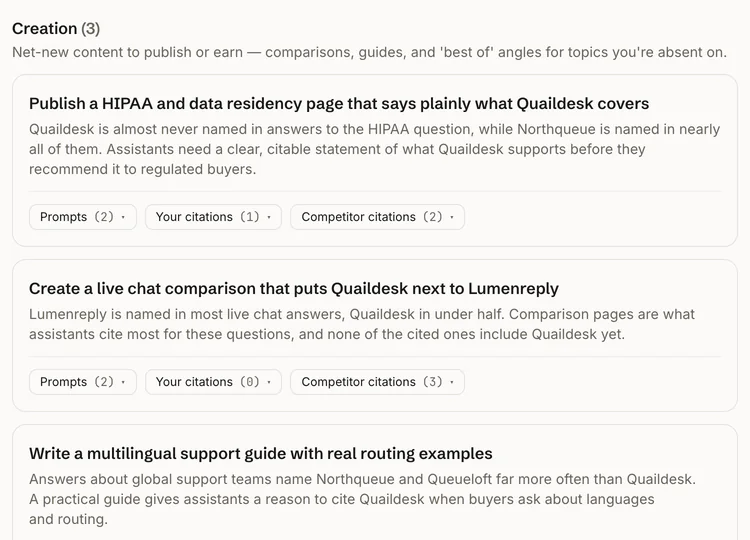
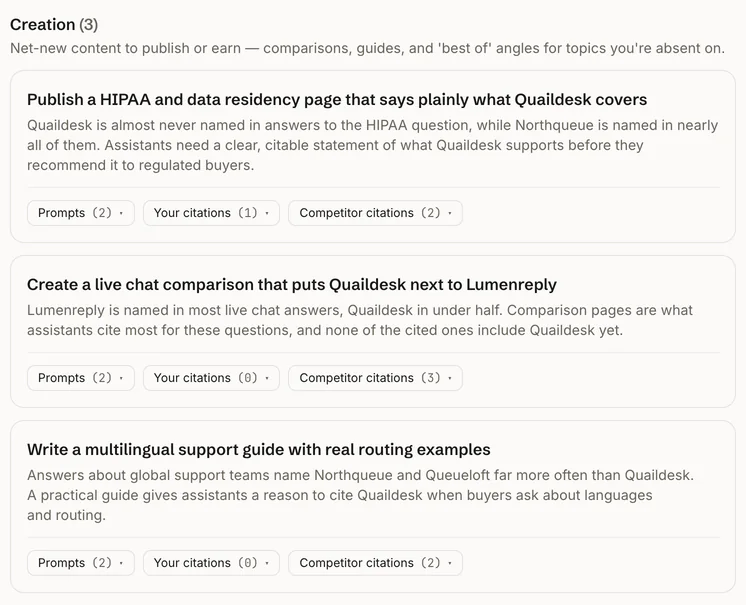
Open the live demo in a panel on the page
Try the live demo and the hero capture opened the demo in a new tab. On a wide screen they now open the real product in a large panel on the same page, signed in and usable, with its own sign-up button inside. The frame is created only when the panel opens, so the page loads nothing extra until then. On a narrow screen, without script, or with a modifier key, the link behaves as before. VITE_DEMO_EMBED=off turns the panel off.

The three step captures are retaken to end on whole blocks, cut inside the dashboard's own cards so the page draws the only outline, and each has a phone version at a phone's width. The last step links to the demo as well as to sign-up.

diff --git a/apps/www/src/components/citerank/v2/how-it-works.tsx b/apps/www/src/components/citerank/v2/how-it-works.tsx
@@ -1,25 +1,38 @@
-import { cloudSignupUrl } from "@workspace/config/referrals";
+import { cloudSignupUrl, demoSiteUrl } from "@workspace/config/referrals";
 import { trackEvent } from "@/lib/posthog";
+import { DEMO_BRAND_PATH } from "../home/product-demo";
 import { BODY, LINK, PANEL, PANEL_PAD_WIDE, Page, PanelHead, SUBHEAD } from "./kit";
+import { LiveDemoLink } from "./live-demo";
 
+/*
+ * Each step shows the screen it describes, cut from the live demo at the size
+ * it is shown at. A phone gets its own cut of the same screen, taken at a
+ * phone's width, or the text in it would be too small to read.
+ */
 const STEPS = [
 	{
 		title: "We ask AI your buyers’ questions",
 		body: "We put your buyers’ questions to every engine and keep each answer whole, with the brands it named and the sources it cited.",
 		shot: "step-ask",
+		size: { width: 722, height: 327 },
+		phone: { width: 354, height: 562 },
 		alt: "A saved ChatGPT answer in CiteRank.com: the question asked, the web searches it ran, and the six brands it named with each one’s rank and tone",
 	},
 	{
 		title: "See where you stand",
 		body: "How often you are named, how often each rival is, how AI describes you, and which pages it trusts.",
 		shot: "step-see",
+		size: { width: 722, height: 477 },
+		phone: { width: 354, height: 477 },
 		alt: "The share of voice leaderboard in CiteRank.com: the tracked brand first, then eight rivals, each with its mentions and its share",
 	},
 	{
 		title: "Know what to fix",
 		body: "Opportunities ranks the fixes, biggest win first: a page to write, a page to update, a review site to get on.",
 		shot: "step-fix",
-		alt: "The opportunities page in CiteRank.com: three pages to create, each with the reason AI is not naming the brand yet",
+		size: { width: 746, height: 605 },
+		phone: { width: 378, height: 676 },
+		alt: "The opportunities page in CiteRank.com: pages to create, each with the reason AI is not naming the brand yet",
 	},
 ];
 
@@ -27,12 +40,14 @@ const STEPS = [
  * On a wide screen each capture holds its place while the steps scroll past,
  * and the next one slides over it. That works by letting a capture's grid area
  * run from its own row to the last, which is as far as it may stay stuck. Each
- * sticks a little lower than the one before, so the earlier sheets show above it.
+ * sticks a little lower than the one before, so the earlier sheets show above
+ * it, and none is shorter than the one it covers.
  */
 const ROW = ["lg:row-start-1", "lg:row-start-2", "lg:row-start-3"];
 const STUCK = ["lg:top-28", "lg:top-32", "lg:top-36"];
 
 export function HowItWorks() {
+	const demoUrl = demoSiteUrl("marketing-page-cta", DEMO_BRAND_PATH);
 	return (
 		<section id="how-it-works" className={`${PANEL} ${PANEL_PAD_WIDE}`}>
 			<Page>
@@ -47,15 +62,23 @@ export function HowItWorks() {
 								<h3 className={`${SUBHEAD} mt-6 text-ink`}>{step.title}</h3>
 								<p className={`${BODY} mt-3 max-w-[44ch] text-zinc-600`}>{step.body}</p>
 								{index === STEPS.length - 1 ? (
-									<p className={`${BODY} mt-6`}>
+									// A div, not a paragraph: the demo link carries a dialog, which a paragraph cannot contain.
+									<div className={`${BODY} mt-6 flex flex-wrap gap-x-6 gap-y-2`}>
 										<a
 											href={cloudSignupUrl("marketing-cta")}
 											onClick={() => trackEvent("signup_click", { from: "marketing-how-it-works" })}
-											className={`${LINK} font-medium text-ink`}
+											className={`${LINK} font-medium whitespace-nowrap text-ink`}
 										>
 											Start tracking
 										</a>
-									</p>
+										<LiveDemoLink
+											href={demoUrl}
+											onOpen={() => trackEvent("demo_open", { from: "demo-section" })}
+											className={`${LINK} font-medium whitespace-nowrap text-ink`}
+										>
+											Try the live demo
+										</LiveDemoLink>
+									</div>
 								) : null}
 							</div>
 							<figure
@@ -63,17 +86,26 @@ export function HowItWorks() {
 								data-kind="product"
 								className={`mt-8 lg:sticky lg:col-start-2 lg:row-end-4 lg:mt-0 lg:self-start ${ROW[index]} ${STUCK[index]}`}
 							>
-								<img
-									src={`/screens/${step.shot}.webp`}
-									srcSet={`/screens/${step.shot}.webp 750w, /screens/${step.shot}-2x.webp 1500w`}
-									sizes="(min-width: 1024px) 728px, 100vw"
-									width={750}
-									height={540}
-									alt={step.alt}
-									loading="lazy"
-									decoding="async"
-									className="block h-auto w-full rounded-card bg-paper ring-1 ring-zinc-200"
-								/>
+								<picture>
+									<source
+										media="(max-width: 639px)"
+										srcSet={`/screens/${step.shot}-phone.webp ${step.phone.width}w, /screens/${step.shot}-phone-2x.webp ${step.phone.width * 2}w`}
+										sizes="100vw"
+										width={step.phone.width}
+										height={step.phone.height}
+									/>
+									<img
+										src={`/screens/${step.shot}.webp`}
+										srcSet={`/screens/${step.shot}.webp ${step.size.width}w, /screens/${step.shot}-2x.webp ${step.size.width * 2}w`}
+										sizes="(min-width: 1024px) 728px, 100vw"
+										width={step.size.width}
+										height={step.size.height}
+										alt={step.alt}
+										loading="lazy"
+										decoding="async"
+										className="block h-auto w-full rounded-card bg-paper ring-1 ring-zinc-200"
+									/>
+								</picture>
 							</figure>
 						</li>
 					))}

diff --git a/apps/www/src/components/citerank/v2/live-demo.tsx b/apps/www/src/components/citerank/v2/live-demo.tsx
@@ -1,0 +1,80 @@
+import { X } from "lucide-react";
+import { type ComponentPropsWithoutRef, type MouseEvent, useEffect, useRef, useState } from "react";
+import { externalRel } from "@/lib/external-link";
+import { LINK_ON_INK } from "./kit";
+
+/* Set VITE_DEMO_EMBED=off where the demo deployment does not yet allow this site to frame it. */
+const EMBED = import.meta.env.VITE_DEMO_EMBED !== "off";
+/* Below this the product gets the whole screen in its own tab, which serves it better than a panel. */
+const PANEL_FROM = "(min-width: 1024px)";
+
+/**
+ * A link to the live demo. On a wide screen it opens the real product in a
+ * panel on this page, so a visitor can use it without leaving or signing up.
+ * The frame is only created when the panel opens, so it costs the page nothing
+ * until then. Without script, on a narrow screen, or with a modifier key held,
+ * it is an ordinary link to the demo in a new tab.
+ */
+export function LiveDemoLink({
+	href,
+	onOpen,
+	children,
+	...rest
+}: { href: string; onOpen?: () => void } & Omit<ComponentPropsWithoutRef<"a">, "href" | "onClick" | "target" | "rel">) {
+	const dialog = useRef<HTMLDialogElement>(null);
+	const [open, setOpen] = useState(false);
+
+	useEffect(() => {
+		if (open) dialog.current?.showModal();
+	}, [open]);
+
+	function onClick(event: MouseEvent<HTMLAnchorElement>) {
+		onOpen?.();
+		if (!EMBED || event.metaKey || event.ctrlKey || event.shiftKey || event.altKey) return;
+		if (!window.matchMedia(PANEL_FROM).matches) return;
+		event.preventDefault();
+		setOpen(true);
+	}
+
+	return (
+		<>
+			<a {...rest} href={href} target="_blank" rel={externalRel(href)} onClick={onClick}>
+				{children}
+			</a>
+			<dialog
+				ref={dialog}
+				aria-label="CiteRank.com live demo"
+				onClose={() => setOpen(false)}
+				className="m-auto h-[min(60rem,92dvh)] w-[min(96rem,96dvw)] max-w-none overflow-hidden rounded-card bg-paper p-0 text-ink backdrop:bg-ink/70"
+			>
+				{open ? (
+					<div className="flex h-full flex-col">
+						<div className="flex h-14 shrink-0 items-center gap-6 bg-ink px-5 text-paper">
+							<p className="text-[0.9375rem] font-medium">Live demo</p>
+							<p className="hidden text-[0.875rem] text-zinc-300 xl:block">
+								The real product on sample data. Nothing you do here is saved.
+							</p>
+							<a
+								href={href}
+								target="_blank"
+								rel={externalRel(href)}
+								className={`${LINK_ON_INK} ml-auto text-[0.875rem] whitespace-nowrap text-paper`}
+							>
+								Open in a new tab
+							</a>
+							<button
+								type="button"
+								onClick={() => dialog.current?.close()}
+								aria-label="Close the live demo"
+								className="-mr-2 inline-flex size-11 items-center justify-center rounded-full text-paper transition-colors duration-200 hover:bg-ink-well focus-visible:outline-2 focus-visible:-outline-offset-4 focus-visible:outline-paper"
+							>
+								<X className="size-5" aria-hidden="true" />
+							</button>
+						</div>
+						<iframe src={href} title="CiteRank.com live demo" className="block min-h-0 w-full flex-1 bg-paper" />
+					</div>
+				) : null}
+			</dialog>
+		</>
+	);
+}

diff --git a/apps/www/src/components/citerank/v2/hero.tsx b/apps/www/src/components/citerank/v2/hero.tsx
@@ -2,10 +2,10 @@ import { CLOUD_ENTRY_PRICE_USD, CLOUD_PLATFORMS } from "@workspace/config/plans"
 import type { ReferralSource } from "@workspace/config/referrals";
 import { cloudSignupUrl, demoSiteUrl } from "@workspace/config/referrals";
 import type { ReactNode } from "react";
-import { externalRel } from "@/lib/external-link";
 import { trackEvent } from "@/lib/posthog";
 import { DEMO_BRAND_PATH } from "../home/product-demo";
 import { ACTION, ACTION_QUIET_ON_INK, DISPLAY, SMALL } from "./kit";
+import { LiveDemoLink } from "./live-demo";
 
 const ENGINE_COUNT = Object.keys(CLOUD_PLATFORMS).length;
 
@@ -75,15 +75,13 @@ export function Hero({
 						<a href={signupUrl} onClick={() => trackEvent("signup_click", { from })} className={ACTION}>
 							Start tracking
 						</a>
-						<a
+						<LiveDemoLink
 							href={demoUrl}
-							target="_blank"
-							rel={externalRel(demoUrl)}
-							onClick={() => trackEvent("demo_open", { from })}
+							onOpen={() => trackEvent("demo_open", { from })}
 							className={ACTION_QUIET_ON_INK}
 						>
 							Try the live demo
-						</a>
+						</LiveDemoLink>
 					</div>
 					<p className={`${SMALL} mt-4 text-zinc-400`}>
 						<span className="inline-block">Plans from ${CLOUD_ENTRY_PRICE_USD} a month.</span>{" "}
@@ -92,16 +90,15 @@ export function Hero({
 				</div>
 
 				{/*
-				 * The product itself, captured from the live demo. On a wide screen it
-				 * is shown at its real size or larger and runs off the edge of the
-				 * window; on a phone it is the four figures alone, so they land on the
-				 * first screen. It is the largest paint there, so it loads eagerly.
+				 * The product itself, captured from the live demo, and the way into it:
+				 * a click opens the real thing. On a wide screen the capture is shown
+				 * at its real size or larger and runs off the edge of the window; on a
+				 * phone it is the four figures alone, so they land on the first screen.
+				 * It is the largest paint there, so it loads eagerly.
 				 */}
-				<a
+				<LiveDemoLink
 					href={demoUrl}
-					target="_blank"
-					rel={externalRel(demoUrl)}
-					onClick={() => trackEvent("demo_open", { from: "hero-screenshot" })}
+					onOpen={() => trackEvent("demo_open", { from: "hero-screenshot" })}
 					aria-label="Open the live demo"
 					data-slot="hero"
 					data-kind="product"
@@ -122,7 +119,7 @@ export function Hero({
 							className="block h-auto w-full rounded-card bg-paper ring-1 ring-ink-rule lg:w-[max(calc(100%+6rem),min(62.5rem,calc((100svh-10.5rem)*1.486)))] lg:max-w-none"
 						/>
 					</picture>
-				</a>
+				</LiveDemoLink>
 			</div>
 		</section>
 	);

diff --git a/scripts/demo-data/capture.ts b/scripts/demo-data/capture.ts
@@ -80,11 +80,56 @@ interface Crop {
 
 const CROPS: Crop[] = [
 	// 813 high so the competitor table ends on a whole row.
-	{ name: "overview-wide", path: "", viewport: { width: 1280, height: 813 }, clip: { x: 264, y: 80, width: 1000, height: 673 } },
-	{ name: "overview-phone", path: "", viewport: { width: 390, height: 844 }, clip: { x: 0, y: 280, width: 390, height: 348 } },
-	{ name: "step-ask", path: "/responses", viewport: { width: 1040, height: 900 }, clip: { x: 269, y: 433, width: 750, height: 540 } },
-	{ name: "step-see", path: "/share-of-voice", viewport: { width: 1040, height: 900 }, clip: { x: 269, y: 605, width: 750, height: 540 } },
-	{ name: "step-fix", path: "/opportunities", viewport: { width: 1040, height: 900 }, clip: { x: 269, y: 613, width: 750, height: 540 } },
+	{
+		name: "overview-wide",
+		path: "",
+		viewport: { width: 1280, height: 813 },
+		clip: { x: 264, y: 80, width: 1000, height: 673 },
+	},
+	{
+		name: "overview-phone",
+		path: "",
+		viewport: { width: 390, height: 844 },
+		clip: { x: 0, y: 280, width: 390, height: 348 },
+	},
+	// The three steps. Each is cut inside the dashboard's own card, so the page draws the only outline, and each ends on
+	// a whole block. They stack on the page, so no crop may be shorter than the one before it.
+	{
+		name: "step-ask",
+		path: "/responses",
+		viewport: { width: 1040, height: 900 },
+		clip: { x: 283, y: 459, width: 722, height: 327 },
+	},
+	{
+		name: "step-see",
+		path: "/share-of-voice",
+		viewport: { width: 1040, height: 900 },
+		clip: { x: 283, y: 631, width: 722, height: 477 },
+	},
+	{
+		name: "step-fix",
+		path: "/opportunities",
+		viewport: { width: 1040, height: 900 },
+		clip: { x: 271, y: 617, width: 746, height: 605 },
+	},
+	{
+		name: "step-ask-phone",
+		path: "/responses",
+		viewport: { width: 390, height: 844 },
+		clip: { x: 18, y: 538, width: 354, height: 562 },
+	},
+	{
+		name: "step-see-phone",
+		path: "/share-of-voice",
+		viewport: { width: 390, height: 844 },
+		clip: { x: 18, y: 1169, width: 354, height: 477 },
+	},
+	{
+		name: "step-fix-phone",
+		path: "/opportunities",
+		viewport: { width: 390, height: 844 },
+		clip: { x: 6, y: 840, width: 378, height: 676 },
+	},
 ];
 
 /** Simple marks for the fictional companies, so their rows don't show a blank globe. */

diff --git a/apps/www/src/components/citerank/v2/closing.tsx b/apps/www/src/components/citerank/v2/closing.tsx
@@ -1,10 +1,10 @@
 import { CLOUD_ENTRY_PRICE_USD } from "@workspace/config/plans";
 import type { ReferralSource } from "@workspace/config/referrals";
 import { cloudSignupUrl, demoSiteUrl } from "@workspace/config/referrals";
-import { externalRel } from "@/lib/external-link";
 import { trackEvent } from "@/lib/posthog";
 import { DEMO_BRAND_PATH } from "../home/product-demo";
 import { ACTION, ACTION_QUIET, BAND_PAD, DISPLAY_S, LEAD, LINK, PANEL_TINT, Page, SMALL } from "./kit";
+import { LiveDemoLink } from "./live-demo";
 
 /*
  * The page closes on the founder's own argument and the two things a visitor
@@ -66,15 +66,9 @@ export function Closing({ from = "marketing-closing" }: { from?: ReferralSource 
 							<a href={signupUrl} onClick={() => trackEvent("signup_click", { from })} className={ACTION}>
 								Start tracking
 							</a>
-							<a
-								href={demoUrl}
-								target="_blank"
-								rel={externalRel(demoUrl)}
-								onClick={() => trackEvent("demo_open", { from })}
-								className={ACTION_QUIET}
-							>
+							<LiveDemoLink href={demoUrl} onOpen={() => trackEvent("demo_open", { from })} className={ACTION_QUIET}>
 								Try the live demo
-							</a>
+							</LiveDemoLink>
 						</div>
 						<p className={`${SMALL} mt-4 text-zinc-600`}>
 							<span className="inline-block">Set up takes minutes.</span>{" "}

diff --git a/apps/www/src/server.ts b/apps/www/src/server.ts
@@ -1,7 +1,11 @@
 import handler, { createServerEntry } from "@tanstack/react-start/server-entry";
+import { demoSiteUrl } from "@workspace/config/referrals";
 import { AD_TAG_CSP } from "@workspace/ui/lib/ad-tags";
 import { isMarkdownPreferred, rewritePath } from "fumadocs-core/negotiation";
 import { CAL_EMBED_CSP } from "@/lib/cal-embed";
+
+// The live demo opens in a frame on these pages.
+const DEMO_ORIGIN = new URL(demoSiteUrl("marketing-demo-frame")).origin;
 
 const SECURITY_HEADERS: Record<string, string> = {
 	"Content-Security-Policy": [
@@ -14,7 +18,7 @@ const SECURITY_HEADERS: Record<string, string> = {
 		"media-src 'self' blob: https://*.mux.com https://*.crisp.chat",
 		"worker-src 'self' blob: https://*.crisp.chat",
 		// YouTube embeds in blog posts (privacy-enhanced youtube-nocookie host).
-		`frame-src 'self' https://www.youtube-nocookie.com https://www.youtube.com https://*.crisp.chat ${CAL_EMBED_CSP} ${AD_TAG_CSP.frame}`,
+		`frame-src 'self' ${DEMO_ORIGIN} https://www.youtube-nocookie.com https://www.youtube.com https://*.crisp.chat ${CAL_EMBED_CSP} ${AD_TAG_CSP.frame}`,
 		"object-src 'none'",
 		"frame-ancestors 'none'",
 		"base-uri 'self'",
